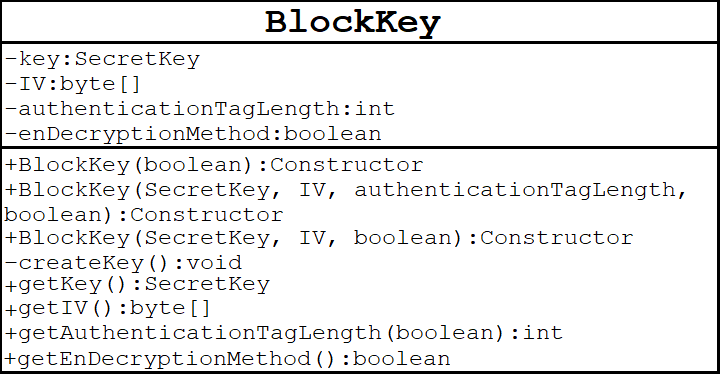
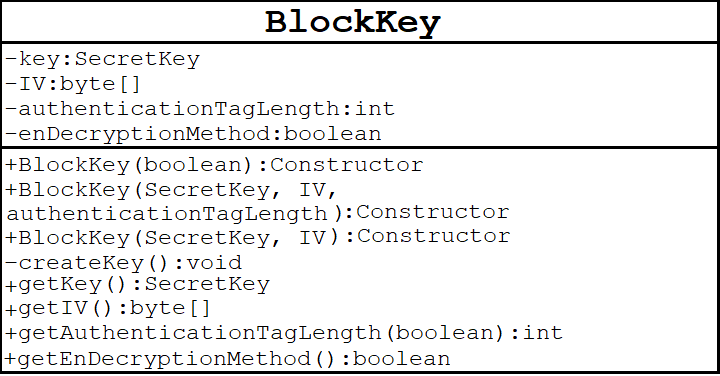
Updated a UML Diagram component and KeyPackage UML package compnent images.  Boolean value for enDecryptionMethod for two of the three contructors in the BlockKey class do not not need to be passed, as it can implicily be determed what the value should be.

Changed region(s): [[0.0, 0.4681, 0.9472, 0.6144], [0.4583, 0.6144, 0.8861, 0.6729]]

diff --git a/Encryptor Decryptor File Encryption/src/Encryptor Decryptor File Ecryption/CipherKeys/BlockKey.java b/Encryptor Decryptor File Encryption/src/Encryptor Decryptor File Ecryption/CipherKeys/BlockKey.java
@@ -3,17 +3,45 @@
  */
 package CipherKeys;
 
+import javax.crypto.KeyGenerator;
+import javax.crypto.SecretKey;
+import java.security.SecureRandom;
+
 /**
- * @author eon74
+ * @author Amol Soneji
  *
  */
 public class BlockKey {
 
+	private SecretKey key;
+	private byte[] IV;
+	private int authenticationTagLength;
+	private boolean enDecryptionMethod;
+	
 	/**
 	 * 
 	 */
-	public BlockKey() {
-		// TODO Auto-generated constructor stub
+	public BlockKey(boolean enDecryptionMethod) 
+	{
+		this.enDecryptionMethod = enDecryptionMethod;
+		createKey();
 	}
+	
+	public BlockKey(SecretKey key, byte[] IV, int authenticataionTagLength)
+	{
+		this.key = key;
+		this.IV = IV;
+		this.authenticationTagLength = authenticationTagLength;
+		enDecryptionMethod = true; //True means GCM mode.  
+	}
+	
+	public BlockKey(SecretKey key, byte[] IV)
+	{
+		this.key = key;
+		this.IV = IV;
+		enDecryptionMethod = false; //False means CBC mode.  
+	}
+	
+	
 
 }
